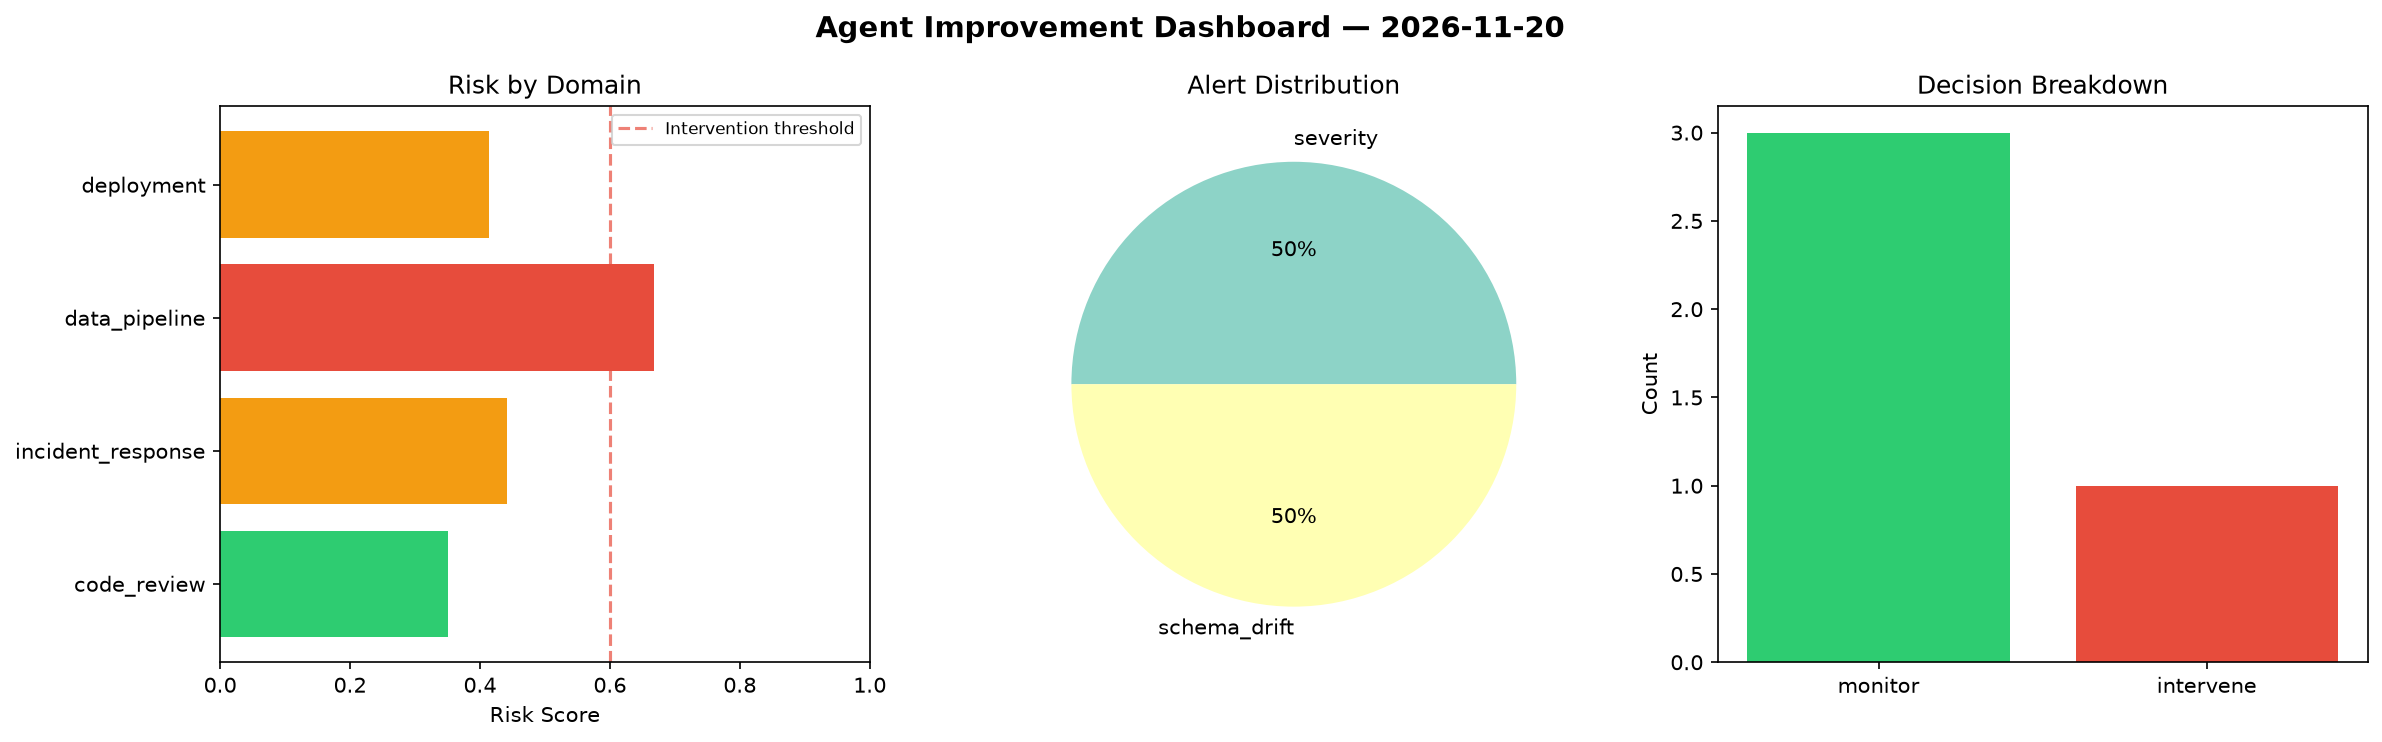
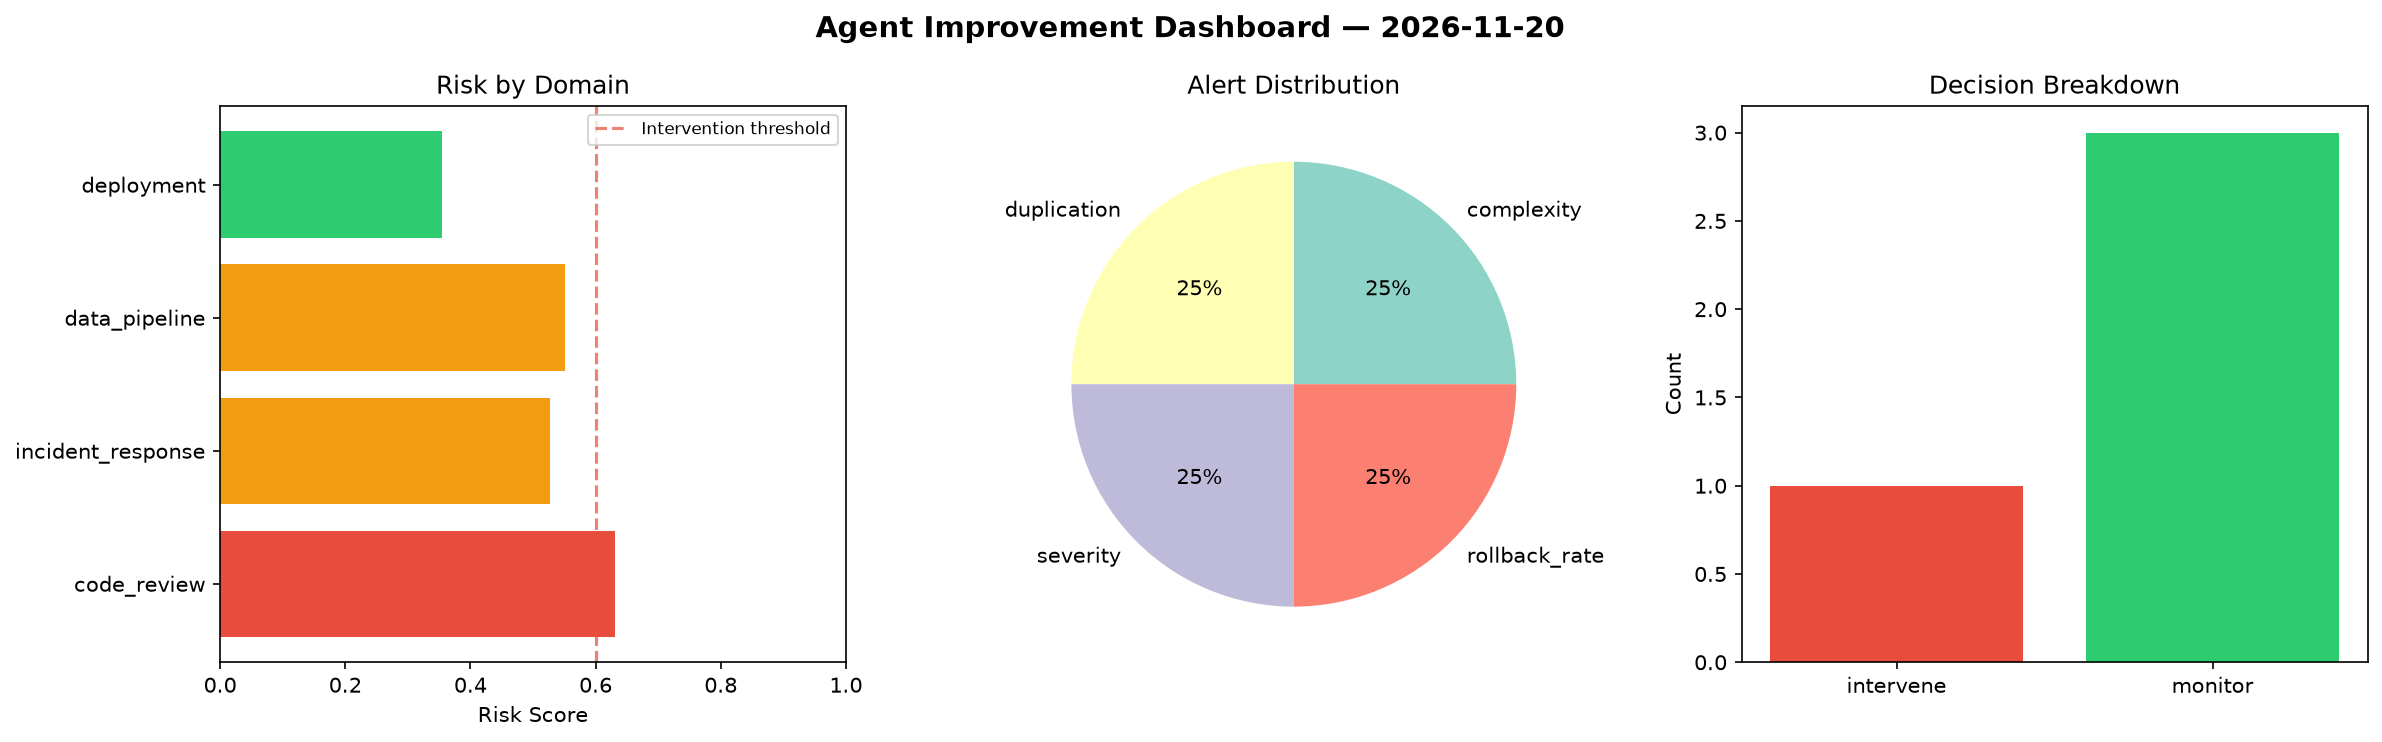
agent-improvement: daily cycle 2026-11-20T21:49

diff --git a/logs/2026-11-20.md b/logs/2026-11-20.md
@@ -1,6 +1,6 @@
 # Agent Improvement Report — 2026-11-20
 
-**Cycle ID:** `aa272f36` | **Avg Risk:** 0.4688 | **Interventions:** 1/4
+**Cycle ID:** `3e224928` | **Avg Risk:** 0.5157 | **Interventions:** 1/4
 
 ![Dashboard](2026-11-20_dashboard.png)
 
@@ -10,18 +10,18 @@
 
 | Domain | Risk Score | Decision | Alerts |
 |--------|-----------|----------|--------|
-| code_review | 0.3515 | monitor | none |
-| incident_response | 0.4422 | monitor | severity |
-| data_pipeline | 0.6673 | intervene | schema_drift |
-| deployment | 0.4142 | monitor | none |
+| code_review | 0.6305 | intervene | complexity, duplication |
+| incident_response | 0.5276 | monitor | severity |
+| data_pipeline | 0.5507 | monitor | none |
+| deployment | 0.3542 | monitor | rollback_rate |
 
 ## Delta vs Yesterday
 
 | Domain | Today | Yesterday | Change |
 |--------|-------|-----------|--------|
-| code_review | 0.3515 | 0.3935 | 📉 -10.7% |
-| incident_response | 0.4422 | 0.3146 | 📈 40.6% |
-| data_pipeline | 0.6673 | 0.5164 | 📈 29.2% |
-| deployment | 0.4142 | 0.5495 | 📉 -24.6% |
+| code_review | 0.6305 | 0.3935 | 📈 60.2% |
+| incident_response | 0.5276 | 0.3146 | 📈 67.7% |
+| data_pipeline | 0.5507 | 0.5164 | 📈 6.6% |
+| deployment | 0.3542 | 0.5495 | 📉 -35.5% |
 
-**Refinement:** `{'adjustment': 'tighten_thresholds', 'trend': 'degrading', 'window': 4}`
+**Refinement:** `{'adjustment': 'maintain', 'trend': 'improving', 'window': 4}`
